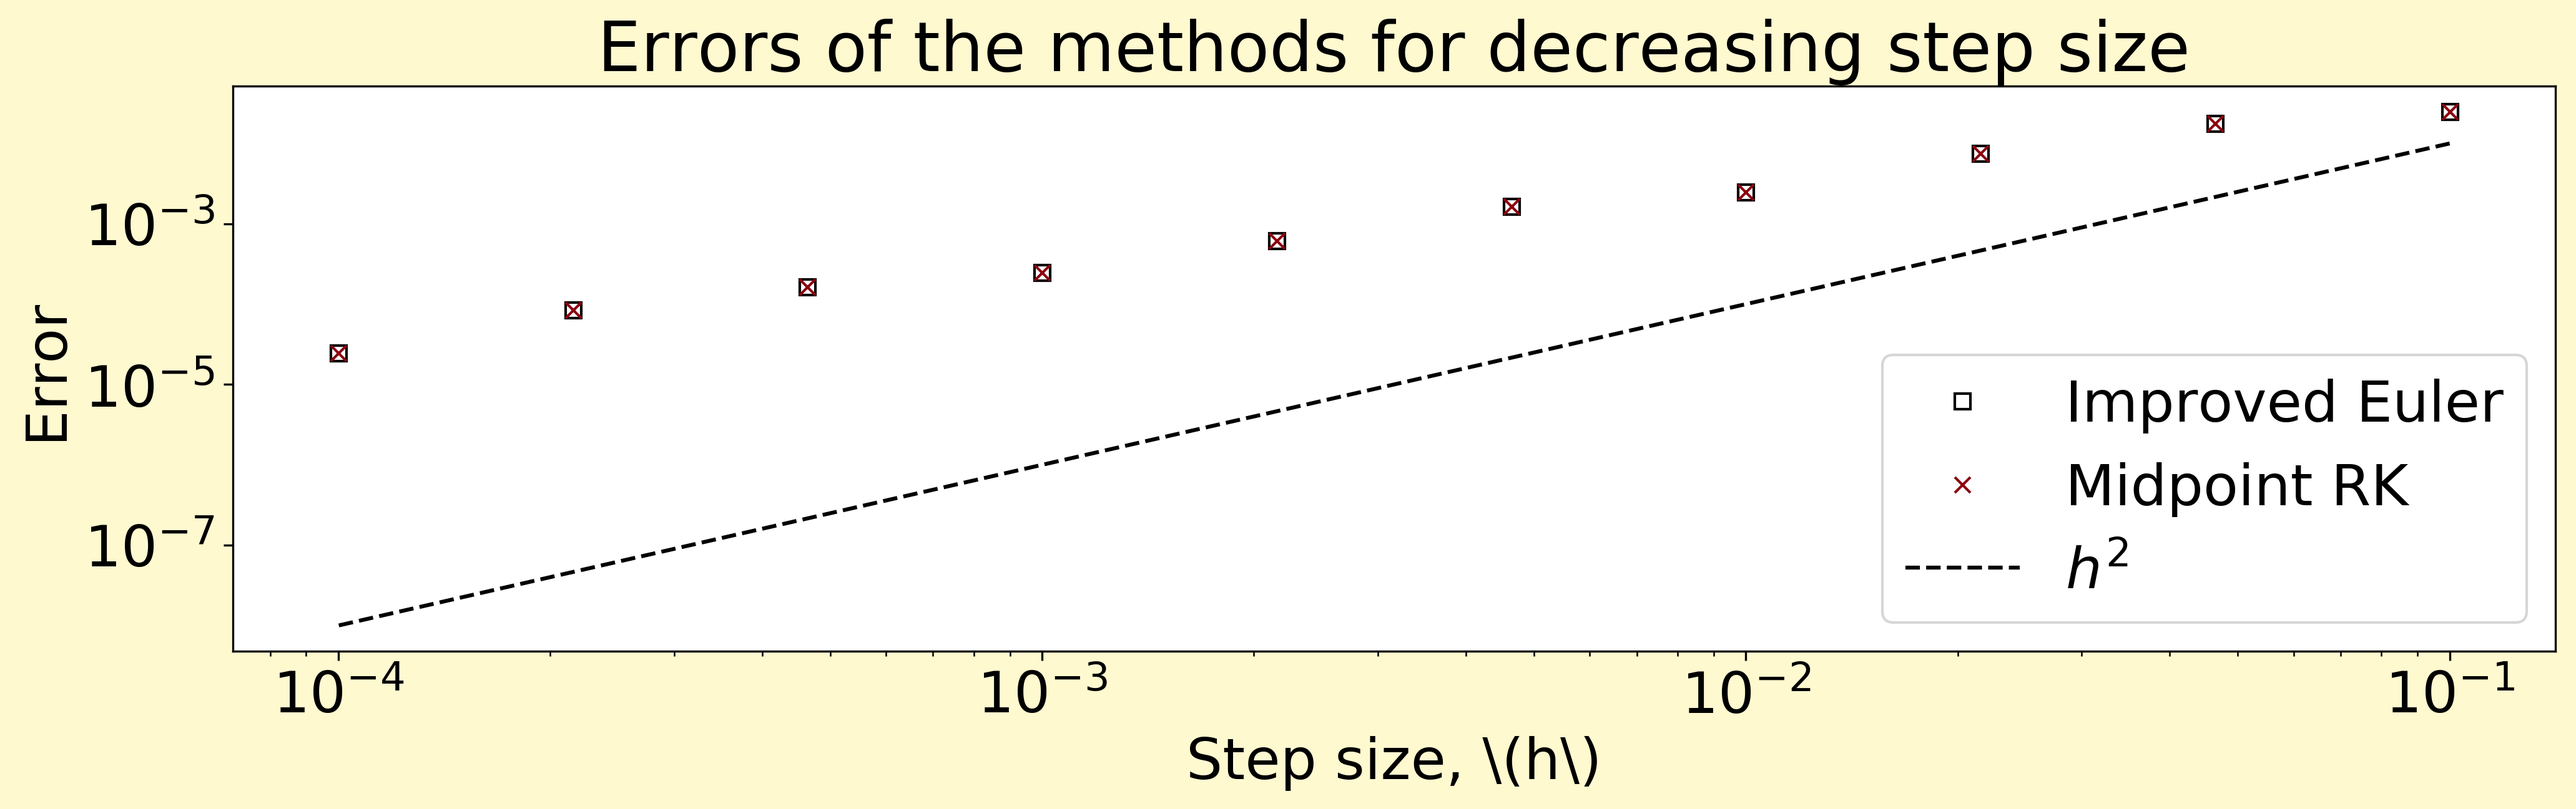
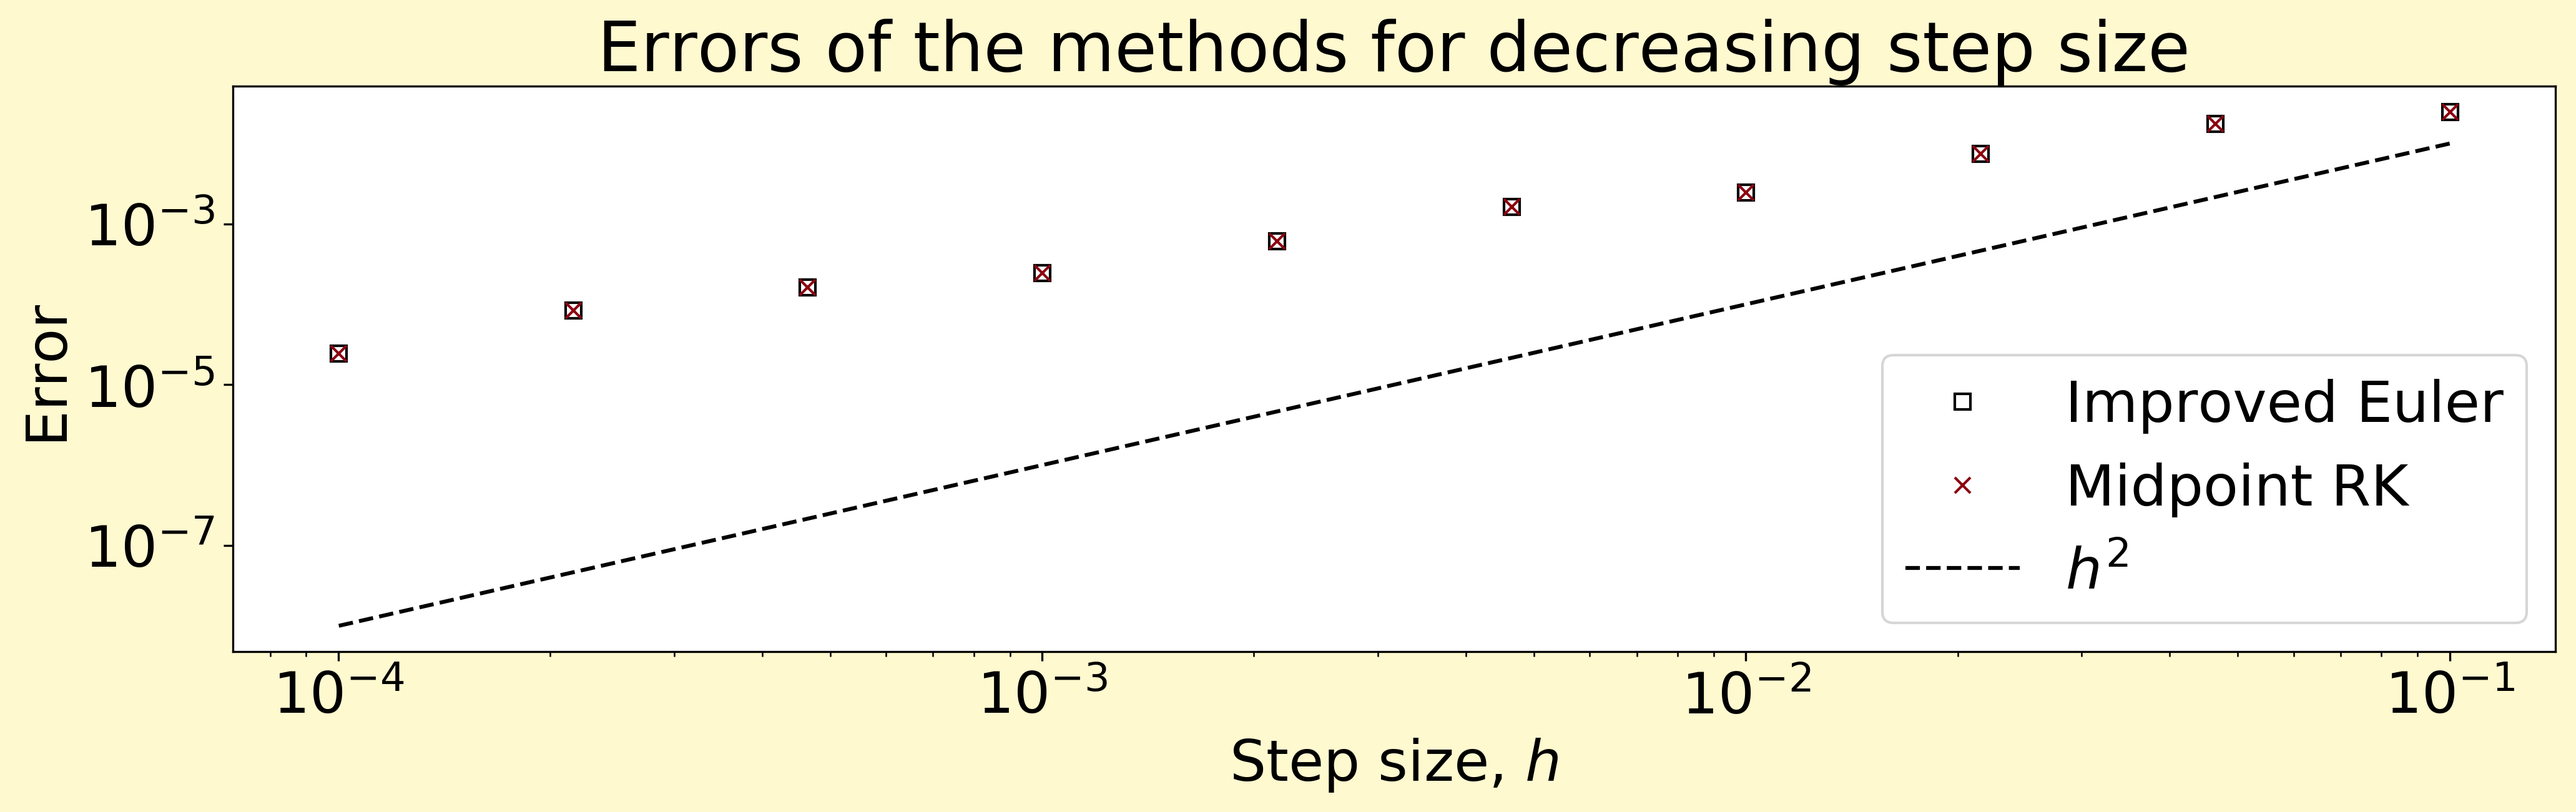
Small detail

diff --git a/main.py b/main.py
@@ -6,6 +6,7 @@ Authors: Anna Bakkebø, Thomas Schjem and Endre Rundsveen
 import numpy as np
 import scipy.integrate as spi
 import matplotlib.pyplot as plt
+plt.rcParams.update({'font.size': 22})
 from mpl_toolkits.mplot3d import Axes3D
 import pickle
 import IntegrationMethods as IntM  # The module containing our functions
@@ -197,7 +198,7 @@ oppg2d[15][0]+oppg2d[15][1] is the same as oppg2d[5][0]+oppg2d[5][1] only with
     different relative and absolute tolerance
 '''
 #2c
-fig=plt.figure(figsize=(16,4),facecolor="xkcd:pale")
+fig=plt.figure(figsize=(16,4),facecolor="xkcd:pale",dpi=300)
 plt.title("Errors of the methods for decreasing step size")
 plt.loglog(oppg2c[0],oppg2c[2],
            'ks',markerfacecolor="none",
@@ -209,7 +210,7 @@ plt.loglog(oppg2c[0],[x**2 for x in oppg2c[0]],
            'k--', label=r"$h^2$")
 plt.legend(loc=4)
 plt.ylabel(r"Error")
-plt.xlabel(r"Step size, \(h\)")
+plt.xlabel(r"Step size, $h$")
 plt.show()
 
 
